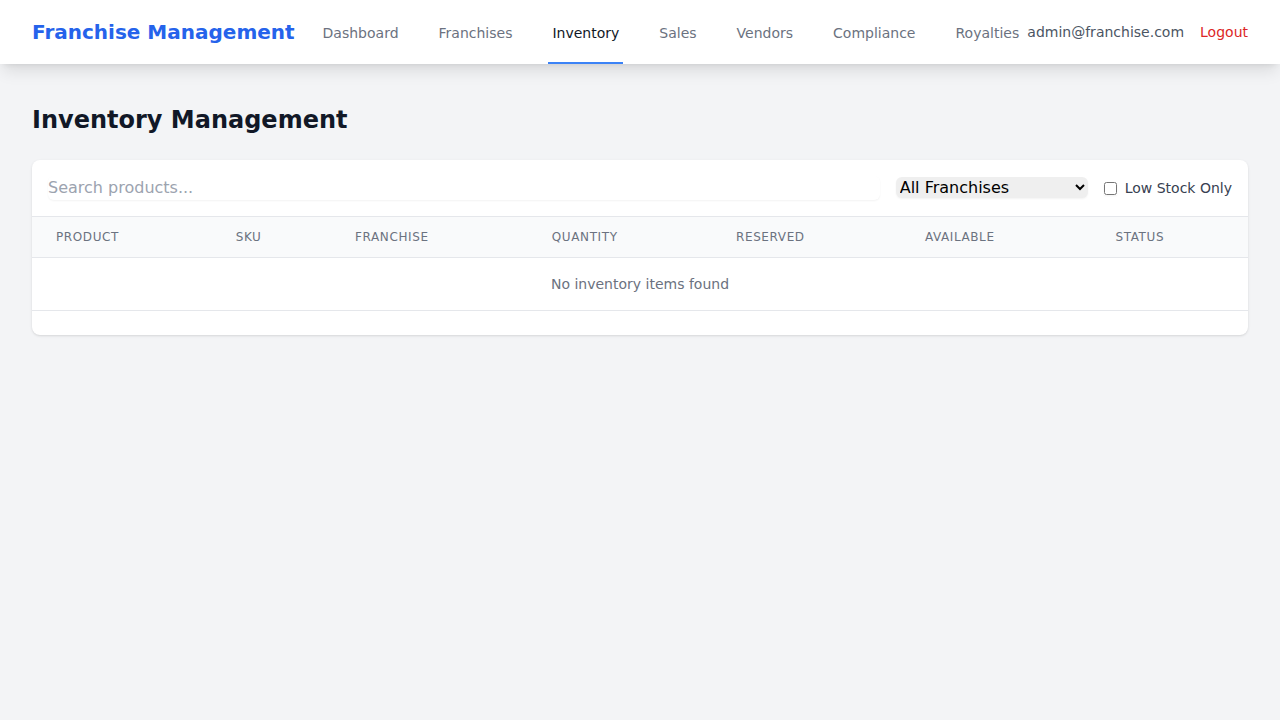
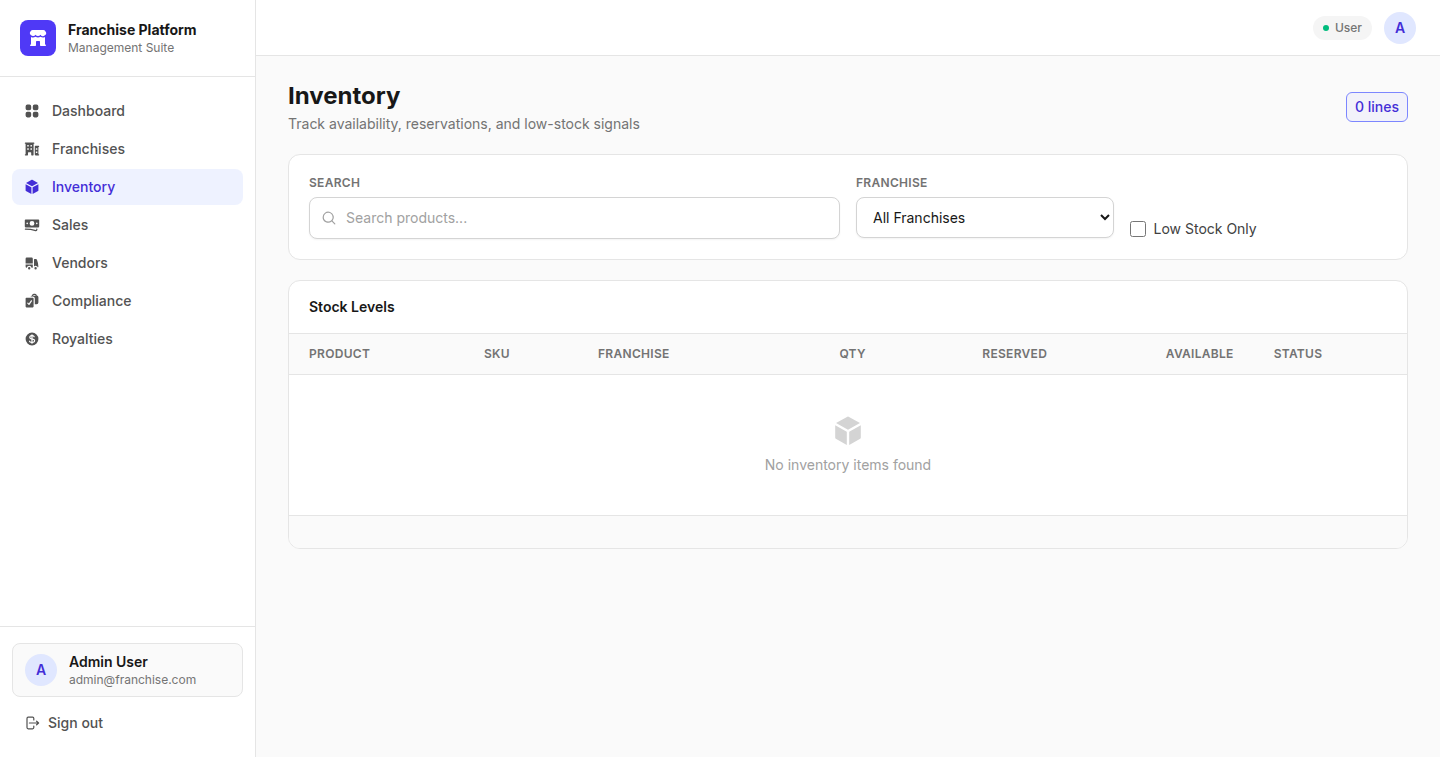
feat: capture new UI screenshots, fix app error, update README and CHANGELOG
- Add blade-ui-kit/blade-heroicons to support x-heroicon-m-* Blade components
- Add missing base Controller class (fixes 500 error on all pages)
- Retake all 9 screenshots (1440x757px) showing new SheafUI + Tailwind CSS 4 UI
- Update README Screenshot Tour: add welcome image, switch to table format
- Update CHANGELOG [2026-03-26] with UI revamp and screenshot details

Agent-Logs-Url: https://github.com/md-riaz/Franchise-Management-Platform/sessions/ea572558-63a0-4b0e-96ca-e6dd7623927f

diff --git a/app/Http/Controllers/Controller.php b/app/Http/Controllers/Controller.php
@@ -1,0 +1,8 @@
+<?php
+
+namespace App\Http\Controllers;
+
+abstract class Controller
+{
+    //
+}

diff --git a/README.md b/README.md
@@ -152,16 +152,21 @@ The application will be available at `http://localhost:8080`. Adjust database cr
 
 ## Screenshot Tour
 
-- Welcome: `public/screenshots/welcome.png`
-- Login: `public/screenshots/login.png`
-- Dashboard: `public/screenshots/dashboard.png`
-- Franchises: `public/screenshots/franchises.png`
-- Inventory: `public/screenshots/inventory.png`
-- Sales: `public/screenshots/sales.png`
-- Vendors: `public/screenshots/vendors.png`
-- Compliance: `public/screenshots/compliance.png`
-- Royalties: `public/screenshots/royalties.png`
+The screenshots below showcase the revamped UI built with SheafUI components and Tailwind CSS 4.
 
+| Screen | File |
+|--------|------|
+| Welcome | `public/screenshots/welcome.png` |
+| Login | `public/screenshots/login.png` |
+| Dashboard | `public/screenshots/dashboard.png` |
+| Franchises | `public/screenshots/franchises.png` |
+| Inventory | `public/screenshots/inventory.png` |
+| Sales | `public/screenshots/sales.png` |
+| Vendors | `public/screenshots/vendors.png` |
+| Compliance | `public/screenshots/compliance.png` |
+| Royalties | `public/screenshots/royalties.png` |
+
+![Welcome](public/screenshots/welcome.png)
 ![Login](public/screenshots/login.png)
 ![Dashboard](public/screenshots/dashboard.png)
 ![Franchises](public/screenshots/franchises.png)

diff --git a/CHANGELOG.md b/CHANGELOG.md
@@ -10,9 +10,14 @@ and this project uses date-based releases (`YYYY-MM-DD`) as the version identifi
 ### Added
 - Docker deployment support with PHP-FPM, Nginx, and MySQL orchestration
 - Team guidance in `AGENT.md` requiring dated changelog entries for every change
+- Revamped UI/UX with SheafUI components and Tailwind CSS 4 across all views (login, dashboard, franchises, inventory, sales, vendors, compliance, royalties, welcome)
+- New screenshots capturing the updated UI (1440 × 757 px, all nine screens) in `public/screenshots/`
+- Added `blade-ui-kit/blade-heroicons` dependency to support Heroicon Blade components used throughout the new UI
+- Added missing base `Controller` class for API controllers
 
 ### Changed
 - Adopted date-based versioning and updated release documentation
+- Updated `README.md` Screenshot Tour section: added welcome screenshot, switched list to a table, and added a description of the SheafUI revamp
 
 ## [2025-10-24]
 
